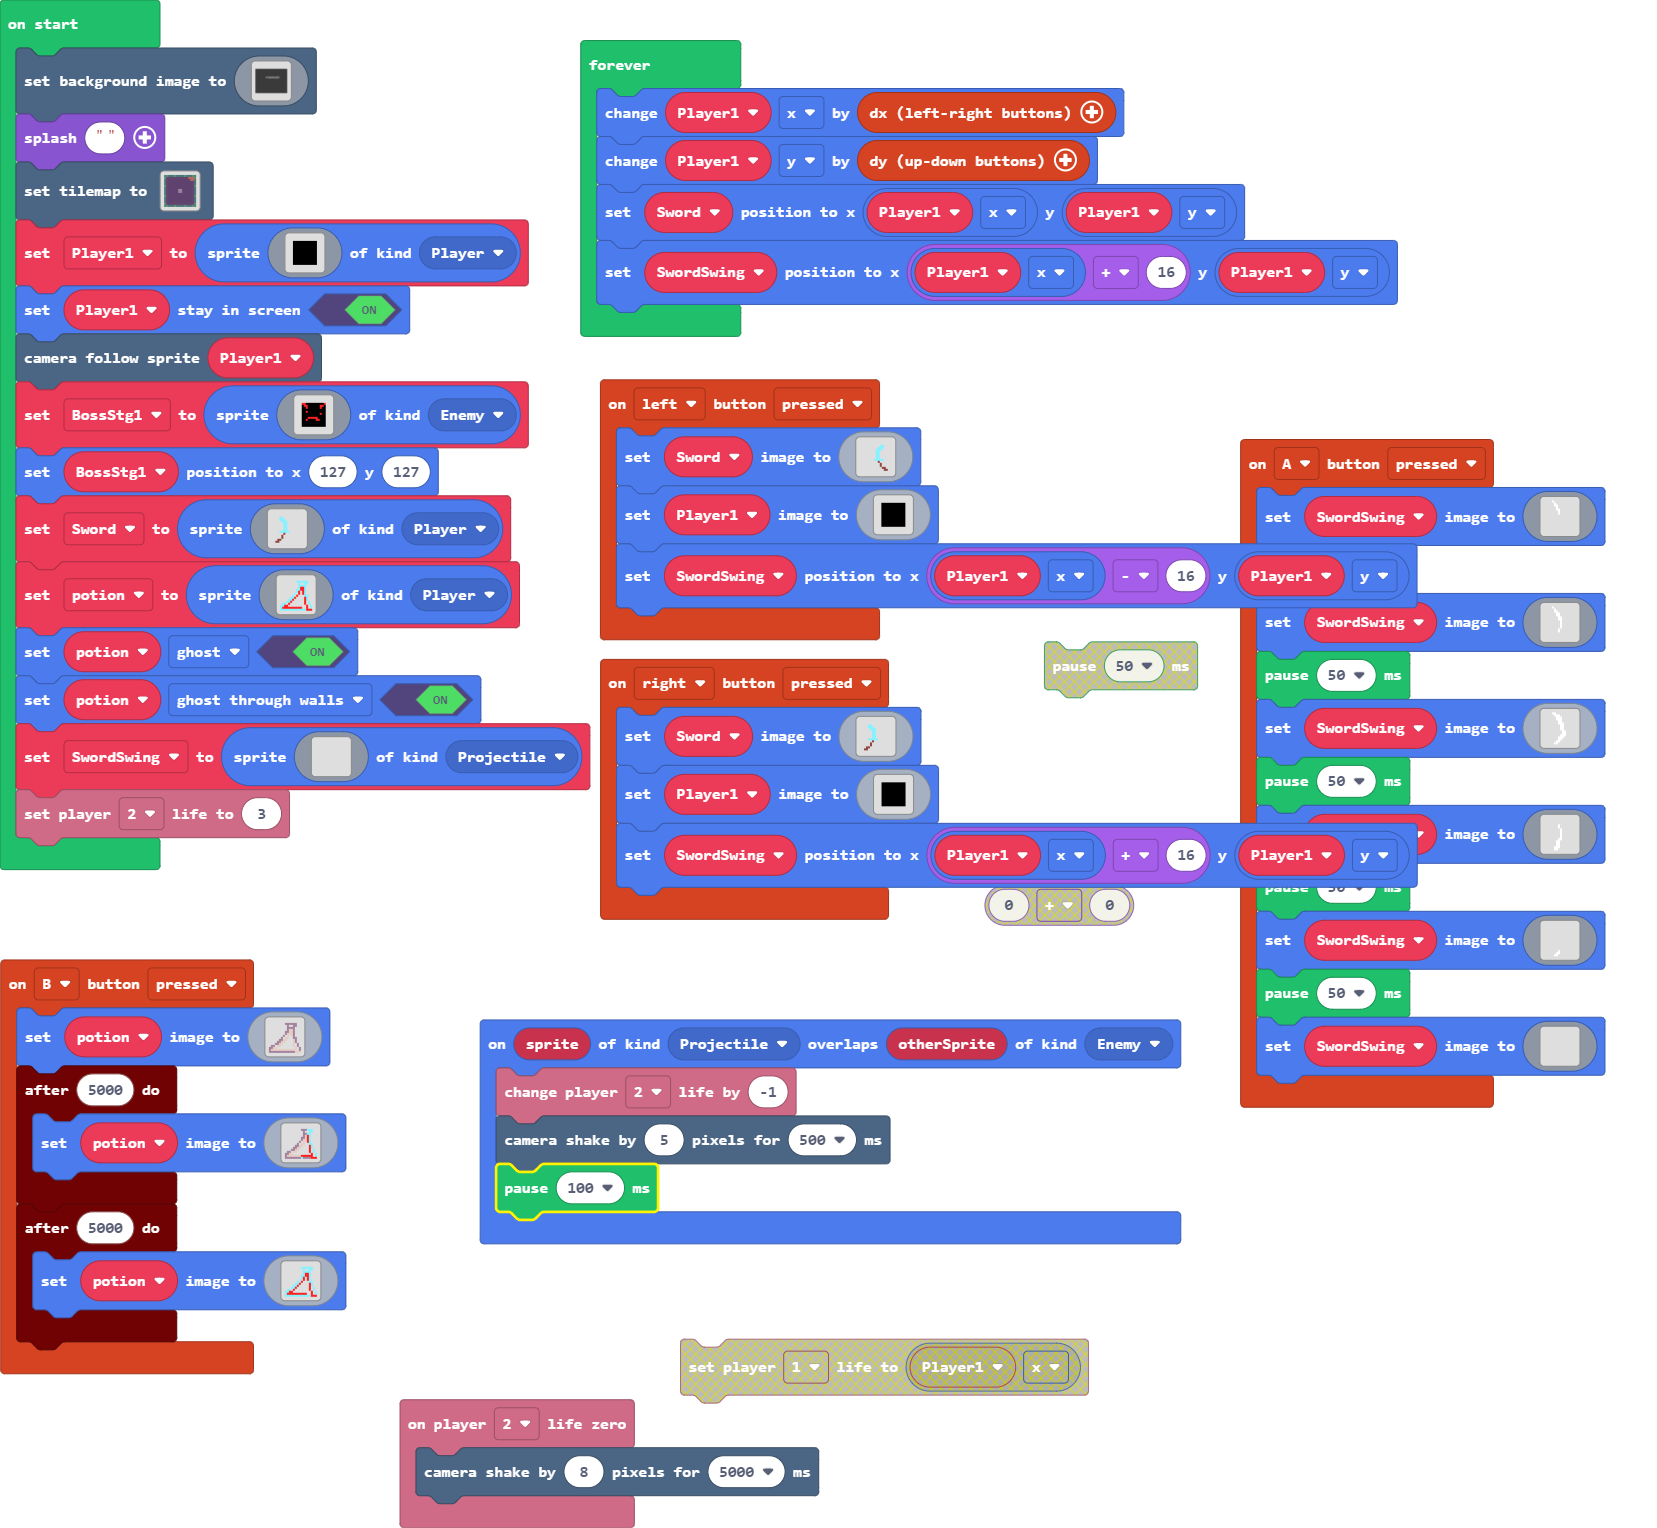
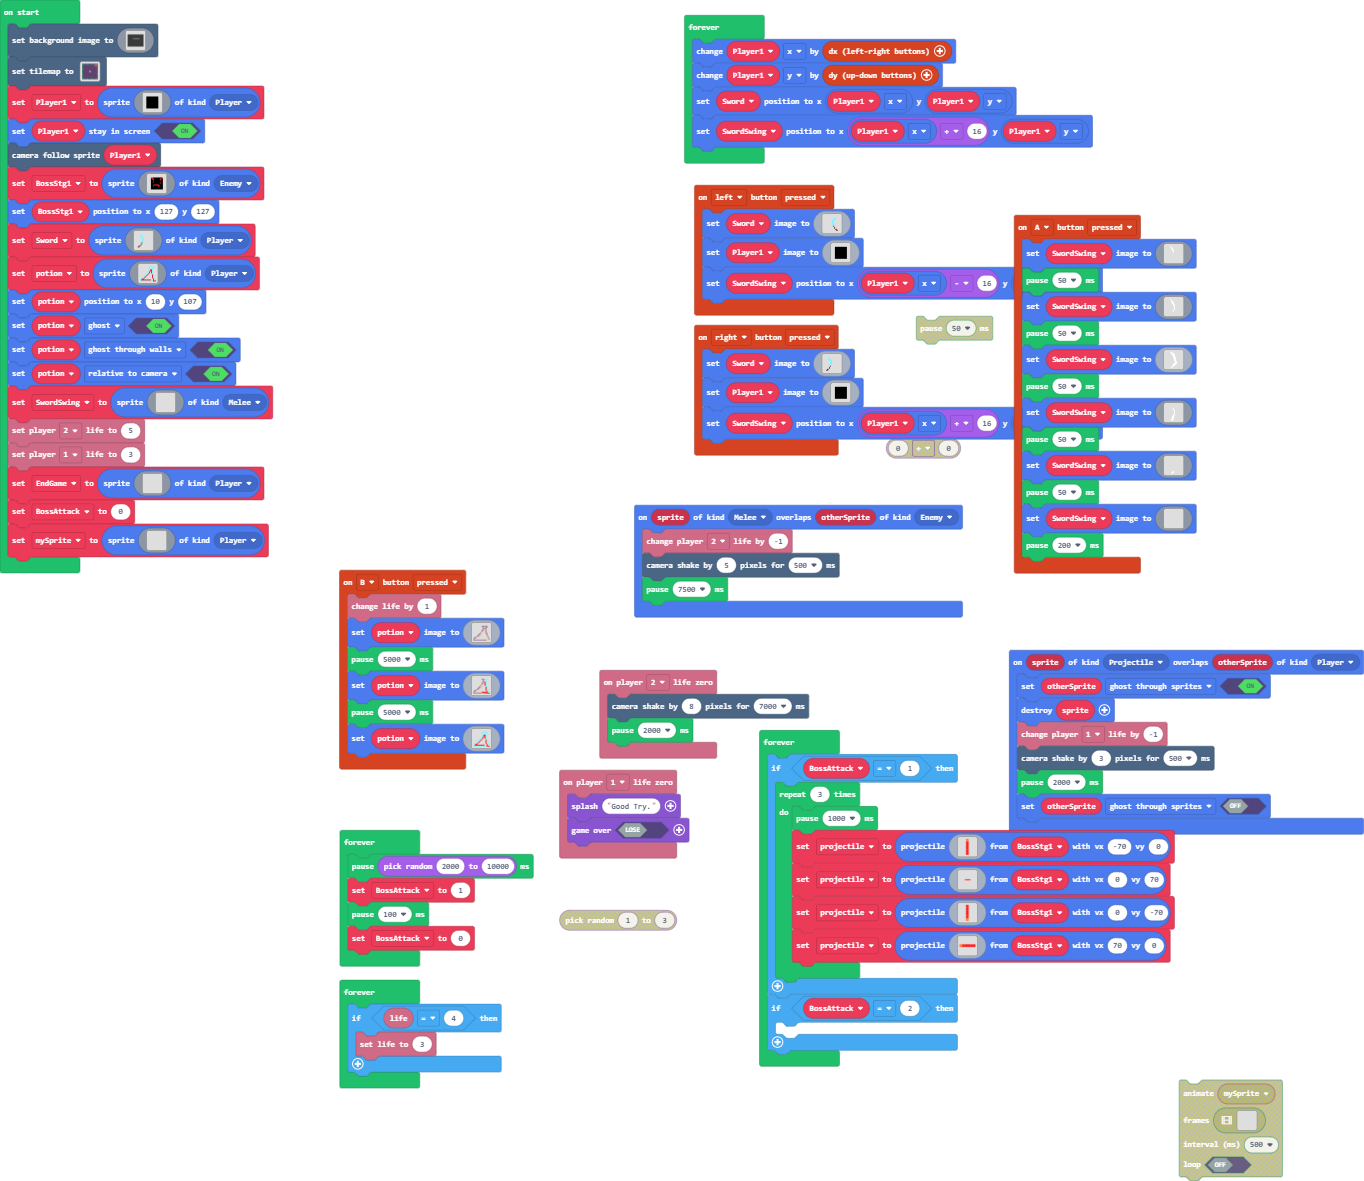
Better Attacks

diff --git a/main.ts b/main.ts
@@ -1,4 +1,13 @@
+namespace SpriteKind {
+    export const Melee = SpriteKind.create()
+}
+sprites.onOverlap(SpriteKind.Melee, SpriteKind.Enemy, function (sprite, otherSprite) {
+    info.player2.changeLifeBy(-1)
+    scene.cameraShake(5, 500)
+    pause(7500)
+})
 controller.B.onEvent(ControllerButtonEvent.Pressed, function () {
+    info.changeLifeBy(1)
     potion.setImage(img`
         . . . . . . . . . . . . . . . . 
         . . . . . . . . b b b b b b . . 
@@ -17,46 +26,44 @@ controller.B.onEvent(ControllerButtonEvent.Pressed, function () {
         b d d d d d d d d d d d d d . b 
         b b b b b b b b b b b b b d d d 
         `)
-    timer.after(5000, function () {
-        potion.setImage(img`
-            . . . . . . . . . . . . . . . . 
-            . . . . . . . . b b b 9 9 9 . . 
-            . . . . . . . . . b . . 9 9 . . 
-            . . . . . . . . . b b 9 9 . . . 
-            . . . . . . . . . b d 2 9 . . . 
-            . . . . . . . . b b d 2 9 . . . 
-            . . . . . . . . b d d 2 9 . . . 
-            . . . . . . . b . d . 2 9 . . . 
-            . . . . . . b . d d . . 9 9 . . 
-            . . . . . b b d d . . . 2 9 . . 
-            . . . . b b d d . . . . 2 9 . . 
-            . . . b b d d . . . . . 2 . 9 . 
-            . b b . d d . . . . . . 2 . 9 . 
-            b b d d . . . . . . . . . 2 . 9 
-            b d d d d d d d 2 2 2 2 2 2 . 9 
-            b b b b b b b b 9 b b b b 2 2 2 
-            `)
-    })
-    timer.after(5000, function () {
-        potion.setImage(img`
-            . . . . . . . . . . . . . . . . 
-            . . . . . . . . 9 9 9 9 9 9 . . 
-            . . . . . . . . . 9 . . 9 9 . . 
-            . . . . . . . . . 9 9 9 9 . . . 
-            . . . . . . . . . 9 2 2 9 . . . 
-            . . . . . . . . 9 9 2 2 9 . . . 
-            . . . . . . . . 9 2 . 2 9 . . . 
-            . . . . . . . 9 . 2 . 2 9 . . . 
-            . . . . . . 9 . 2 . . . 9 9 . . 
-            . . . . . 9 9 2 . . . . 2 9 . . 
-            . . . . 9 9 2 . . . . . 2 9 . . 
-            . . . 9 9 2 . . . . . . 2 . 9 . 
-            . 9 9 . 2 . . . . . . . 2 . 9 . 
-            9 9 2 2 . . . . . . . . . 2 . 9 
-            9 2 2 2 2 2 2 2 2 2 2 . . 2 . 9 
-            9 9 9 9 9 9 9 9 9 9 9 9 9 2 2 2 
-            `)
-    })
+    pause(5000)
+    potion.setImage(img`
+        . . . . . . . . . . . . . . . . 
+        . . . . . . . . b b b 9 9 9 . . 
+        . . . . . . . . . b . . 9 9 . . 
+        . . . . . . . . . b b 9 9 . . . 
+        . . . . . . . . . b d 2 9 . . . 
+        . . . . . . . . b b d 2 9 . . . 
+        . . . . . . . . b d d 2 9 . . . 
+        . . . . . . . b . d . 2 9 . . . 
+        . . . . . . b . d d . . 9 9 . . 
+        . . . . . b b d d . . . 2 9 . . 
+        . . . . b b d d . . . . 2 9 . . 
+        . . . b b d d . . . . . 2 . 9 . 
+        . b b . d d . . . . . . 2 . 9 . 
+        b b d d . . . . . . . . . 2 . 9 
+        b d d d d d d d 2 2 2 2 2 2 . 9 
+        b b b b b b b b 9 b b b b 2 2 2 
+        `)
+    pause(5000)
+    potion.setImage(img`
+        . . . . . . . . . . . . . . . . 
+        . . . . . . . . 9 9 9 9 9 9 . . 
+        . . . . . . . . . 9 . . 9 9 . . 
+        . . . . . . . . . 9 9 9 9 . . . 
+        . . . . . . . . . 9 2 2 9 . . . 
+        . . . . . . . . 9 9 2 2 9 . . . 
+        . . . . . . . . 9 2 . 2 9 . . . 
+        . . . . . . . 9 . 2 . 2 9 . . . 
+        . . . . . . 9 . 2 . . . 9 9 . . 
+        . . . . . 9 9 2 . . . . 2 9 . . 
+        . . . . 9 9 2 . . . . . 2 9 . . 
+        . . . 9 9 2 . . . . . . 2 . 9 . 
+        . 9 9 . 2 . . . . . . . 2 . 9 . 
+        9 9 2 2 . . . . . . . . . 2 . 9 
+        9 2 2 2 2 2 2 2 2 2 2 . . 2 . 9 
+        9 9 9 9 9 9 9 9 9 9 9 9 9 2 2 2 
+        `)
 })
 controller.A.onEvent(ControllerButtonEvent.Pressed, function () {
     SwordSwing.setImage(img`
@@ -172,6 +179,15 @@ controller.A.onEvent(ControllerButtonEvent.Pressed, function () {
         . . . . . . . . . . . . . . . . 
         . . . . . . . . . . . . . . . . 
         `)
+    pause(200)
+})
+sprites.onOverlap(SpriteKind.Projectile, SpriteKind.Player, function (sprite, otherSprite) {
+    otherSprite.setFlag(SpriteFlag.GhostThroughSprites, true)
+    sprite.destroy()
+    info.player1.changeLifeBy(-1)
+    scene.cameraShake(3, 500)
+    pause(2000)
+    otherSprite.setFlag(SpriteFlag.GhostThroughSprites, false)
 })
 controller.left.onEvent(ControllerButtonEvent.Pressed, function () {
     Sword.setImage(img`
@@ -251,14 +267,15 @@ controller.right.onEvent(ControllerButtonEvent.Pressed, function () {
         `)
     SwordSwing.setPosition(Player1.x + 16, Player1.y)
 })
+info.player1.onLifeZero(function () {
+    game.splash("Good Try.")
+    game.over(false)
+})
 info.player2.onLifeZero(function () {
-    scene.cameraShake(8, 5000)
+    scene.cameraShake(8, 7000)
+    pause(2000)
 })
-sprites.onOverlap(SpriteKind.Projectile, SpriteKind.Enemy, function (sprite, otherSprite) {
-    info.player2.changeLifeBy(-1)
-    scene.cameraShake(5, 500)
-    pause(100)
-})
+let projectile: Sprite = null
 let SwordSwing: Sprite = null
 let potion: Sprite = null
 let Sword: Sprite = null
@@ -385,7 +402,6 @@ scene.setBackgroundImage(img`
     ffffffffffffffffffffffffffffffffffffffffffffffffffffffffffffffffffffffffffffffffffffffffffffffffffffffffffffffffffffffffffffffffffffffffffffffffffffffffffffffff
     ffffffffffffffffffffffffffffffffffffffffffffffffffffffffffffffffffffffffffffffffffffffffffffffffffffffffffffffffffffffffffffffffffffffffffffffffffffffffffffffff
     `)
-game.splash("")
 tiles.setTilemap(tilemap`level1`)
 Player1 = sprites.create(img`
     . . . . . . . . . . . . . . . . 
@@ -462,8 +478,10 @@ potion = sprites.create(img`
     9 2 2 2 2 2 2 2 2 2 2 . . 2 . 9 
     9 9 9 9 9 9 9 9 9 9 9 9 9 2 2 2 
     `, SpriteKind.Player)
+potion.setPosition(10, 107)
 potion.setFlag(SpriteFlag.Ghost, true)
 potion.setFlag(SpriteFlag.GhostThroughWalls, true)
+potion.setFlag(SpriteFlag.RelativeToCamera, true)
 SwordSwing = sprites.create(img`
     . . . . . . . . . . . . . . . . 
     . . . . . . . . . . . . . . . . 
@@ -481,11 +499,92 @@ SwordSwing = sprites.create(img`
     . . . . . . . . . . . . . . . . 
     . . . . . . . . . . . . . . . . 
     . . . . . . . . . . . . . . . . 
-    `, SpriteKind.Projectile)
-info.player2.setLife(3)
+    `, SpriteKind.Melee)
+info.player2.setLife(5)
+info.player1.setLife(3)
+let EndGame = sprites.create(img`
+    . . . . . . . . . . . . . . . . 
+    . . . . . . . . . . . . . . . . 
+    . . . . . . . . . . . . . . . . 
+    . . . . . . . . . . . . . . . . 
+    . . . . . . . . . . . . . . . . 
+    . . . . . . . . . . . . . . . . 
+    . . . . . . . . . . . . . . . . 
+    . . . . . . . . . . . . . . . . 
+    . . . . . . . . . . . . . . . . 
+    . . . . . . . . . . . . . . . . 
+    . . . . . . . . . . . . . . . . 
+    . . . . . . . . . . . . . . . . 
+    . . . . . . . . . . . . . . . . 
+    . . . . . . . . . . . . . . . . 
+    . . . . . . . . . . . . . . . . 
+    . . . . . . . . . . . . . . . . 
+    `, SpriteKind.Player)
+let BossAttack = 0
+let mySprite = sprites.create(img`
+    . . . . . . . . . . . . . . . . 
+    . . . . . . . . . . . . . . . . 
+    . . . . . . . . . . . . . . . . 
+    . . . . . . . . . . . . . . . . 
+    . . . . . . . . . . . . . . . . 
+    . . . . . . . . . . . . . . . . 
+    . . . . . . . . . . . . . . . . 
+    . . . . . . . . . . . . . . . . 
+    . . . . . . . . . . . . . . . . 
+    . . . . . . . . . . . . . . . . 
+    . . . . . . . . . . . . . . . . 
+    . . . . . . . . . . . . . . . . 
+    . . . . . . . . . . . . . . . . 
+    . . . . . . . . . . . . . . . . 
+    . . . . . . . . . . . . . . . . 
+    . . . . . . . . . . . . . . . . 
+    `, SpriteKind.Player)
 forever(function () {
     Player1.x += controller.dx()
     Player1.y += controller.dy()
     Sword.setPosition(Player1.x, Player1.y)
     SwordSwing.setPosition(Player1.x + 16, Player1.y)
+})
+forever(function () {
+    if (BossAttack == 1) {
+        for (let index = 0; index < 3; index++) {
+            pause(1000)
+            projectile = sprites.createProjectileFromSprite(img`
+                4 
+                2 
+                2 
+                2 
+                2 
+                2 
+                `, BossStg1, -70, 0)
+            projectile = sprites.createProjectileFromSprite(img`
+                . . . . . 4 2 2 2 2 2 . . . . . 
+                `, BossStg1, 0, 70)
+            projectile = sprites.createProjectileFromSprite(img`
+                2 
+                2 
+                2 
+                2 
+                2 
+                4 
+                `, BossStg1, 0, -70)
+            projectile = sprites.createProjectileFromSprite(img`
+                4 2 2 2 2 2 
+                `, BossStg1, 70, 0)
+        }
+    }
+    if (BossAttack == 2) {
+    	
+    }
+})
+forever(function () {
+    pause(randint(2000, 10000))
+    BossAttack = 1
+    pause(100)
+    BossAttack = 0
+})
+forever(function () {
+    if (info.life() == 4) {
+        info.setLife(3)
+    }
 })

diff --git a/tilemap.g.ts b/tilemap.g.ts
@@ -24,6 +24,44 @@ namespace myTiles {
 2 . . . . . . . . . . . . . . 2 
 2 2 2 2 2 2 2 2 2 2 2 2 2 2 2 2 
 `, [myTiles.transparency16,sprites.dungeon.greenOuterSouthEast,sprites.dungeon.greenOuterWest1,sprites.dungeon.greenOuterNorthWest,sprites.dungeon.greenOuterNorth0,sprites.dungeon.greenOuterNorth1,sprites.dungeon.greenOuterNorthEast,sprites.dungeon.greenOuterEast0,sprites.dungeon.greenOuterSouthWest,sprites.dungeon.greenOuterSouth1,sprites.dungeon.darkGroundNorthWest0,sprites.dungeon.darkGroundSouthEast0,sprites.dungeon.darkGroundSouthWest0,sprites.dungeon.darkGroundWest,sprites.dungeon.darkGroundNorth,sprites.dungeon.darkGroundEast,sprites.dungeon.darkGroundSouth,sprites.dungeon.darkGroundCenter,sprites.dungeon.greenOuterSouth2,sprites.dungeon.greenOuterEast2,sprites.dungeon.greenOuterEast1,sprites.dungeon.greenOuterWest2,sprites.dungeon.greenOuterNorth2,sprites.dungeon.stairLadder,sprites.dungeon.chestClosed,sprites.dungeon.floorDarkDiamond], TileScale.Sixteen);
+            case "level2":
+            case "level2":return tiles.createTilemap(hex`1000100000000000000000000000000000000000000000000000000000000000000000000000000000000000000000000000000000000000000000000000000000000000000000000000000000000000000000000000000000000000000000000000000000000000000000000000000000000000000000000000000000000000000000000000000000000000000000000000000000000000000000000000000000000000000000000000000000000000000000000000000000000000000000000000000000000000000000000000000000000000000000000000000000000000000000000000000000000000000000000000000000000000000000000000000000000000`, img`
+. . . . . . . . . . . . . . . . 
+. . . . . . . . . . . . . . . . 
+. . . . . . . . . . . . . . . . 
+. . . . . . . . . . . . . . . . 
+. . . . . . . . . . . . . . . . 
+. . . . . . . . . . . . . . . . 
+. . . . . . . . . . . . . . . . 
+. . . . . . . . . . . . . . . . 
+. . . . . . . . . . . . . . . . 
+. . . . . . . . . . . . . . . . 
+. . . . . . . . . . . . . . . . 
+. . . . . . . . . . . . . . . . 
+. . . . . . . . . . . . . . . . 
+. . . . . . . . . . . . . . . . 
+. . . . . . . . . . . . . . . . 
+. . . . . . . . . . . . . . . . 
+`, [myTiles.transparency16], TileScale.Sixteen);
+            case "level3":
+            case "level3":return tiles.createTilemap(hex`1000100000000000000000000000000000000000000000000000000000000000000000000000000000000000000000000000000000000000000000000000000000000000000000000000000000000000000000000000000000000000000000000000000000000000000000000000000000000000000000000000000000000000000000000000000000000000000000000000000000000000000000000000000000000000000000000000000000000000000000000000000000000000000000000000000000000000000000000000000000000000000000000000000000000000000000000000000000000000000000000000000000000000000000000000000000000000`, img`
+. . . . . . . . . . . . . . . . 
+. . . . . . . . . . . . . . . . 
+. . . . . . . . . . . . . . . . 
+. . . . . . . . . . . . . . . . 
+. . . . . . . . . . . . . . . . 
+. . . . . . . . . . . . . . . . 
+. . . . . . . . . . . . . . . . 
+. . . . . . . . . . . . . . . . 
+. . . . . . . . . . . . . . . . 
+. . . . . . . . . . . . . . . . 
+. . . . . . . . . . . . . . . . 
+. . . . . . . . . . . . . . . . 
+. . . . . . . . . . . . . . . . 
+. . . . . . . . . . . . . . . . 
+. . . . . . . . . . . . . . . . 
+. . . . . . . . . . . . . . . . 
+`, [myTiles.transparency16], TileScale.Sixteen);
         }
         return null;
     })
